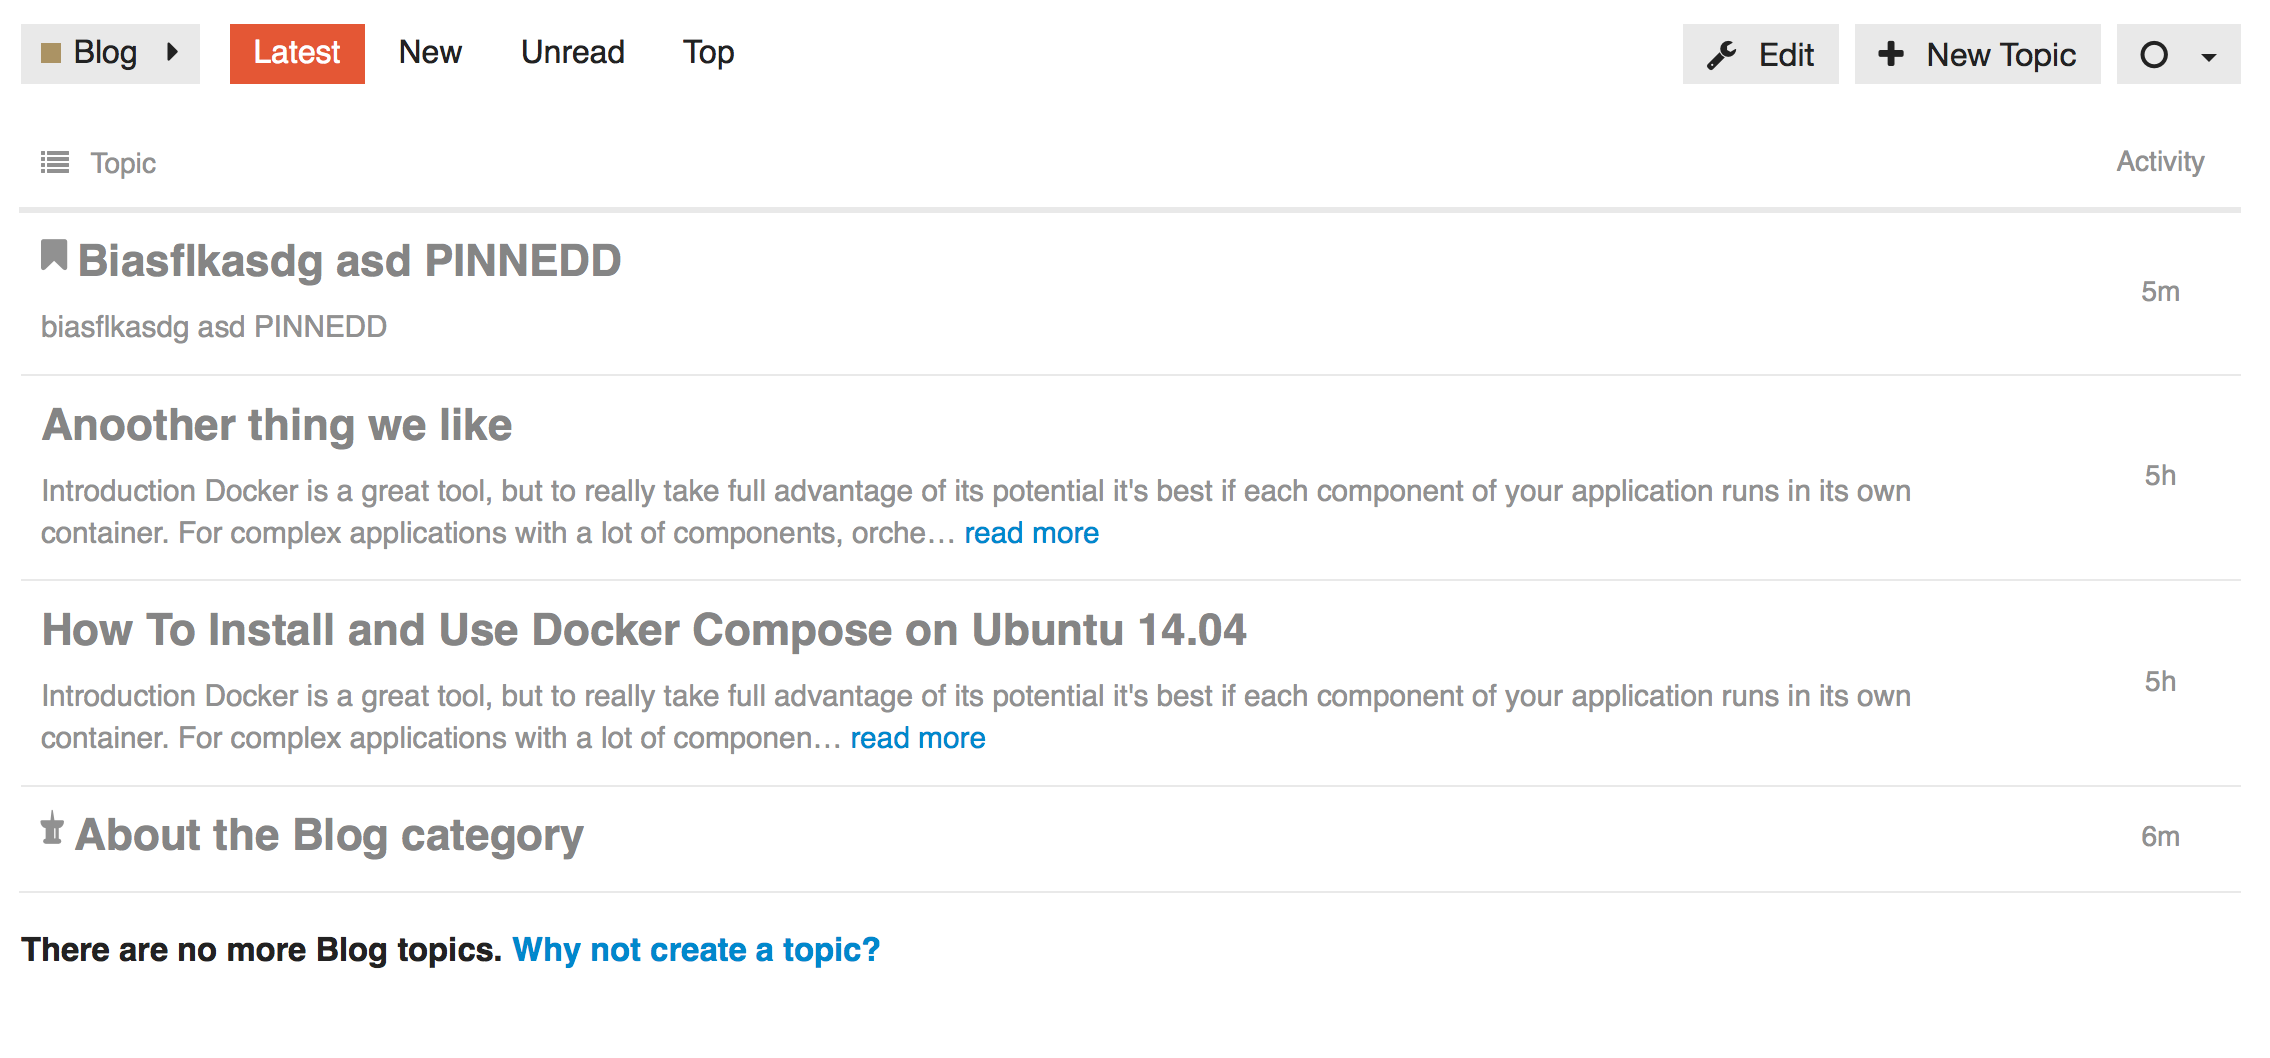
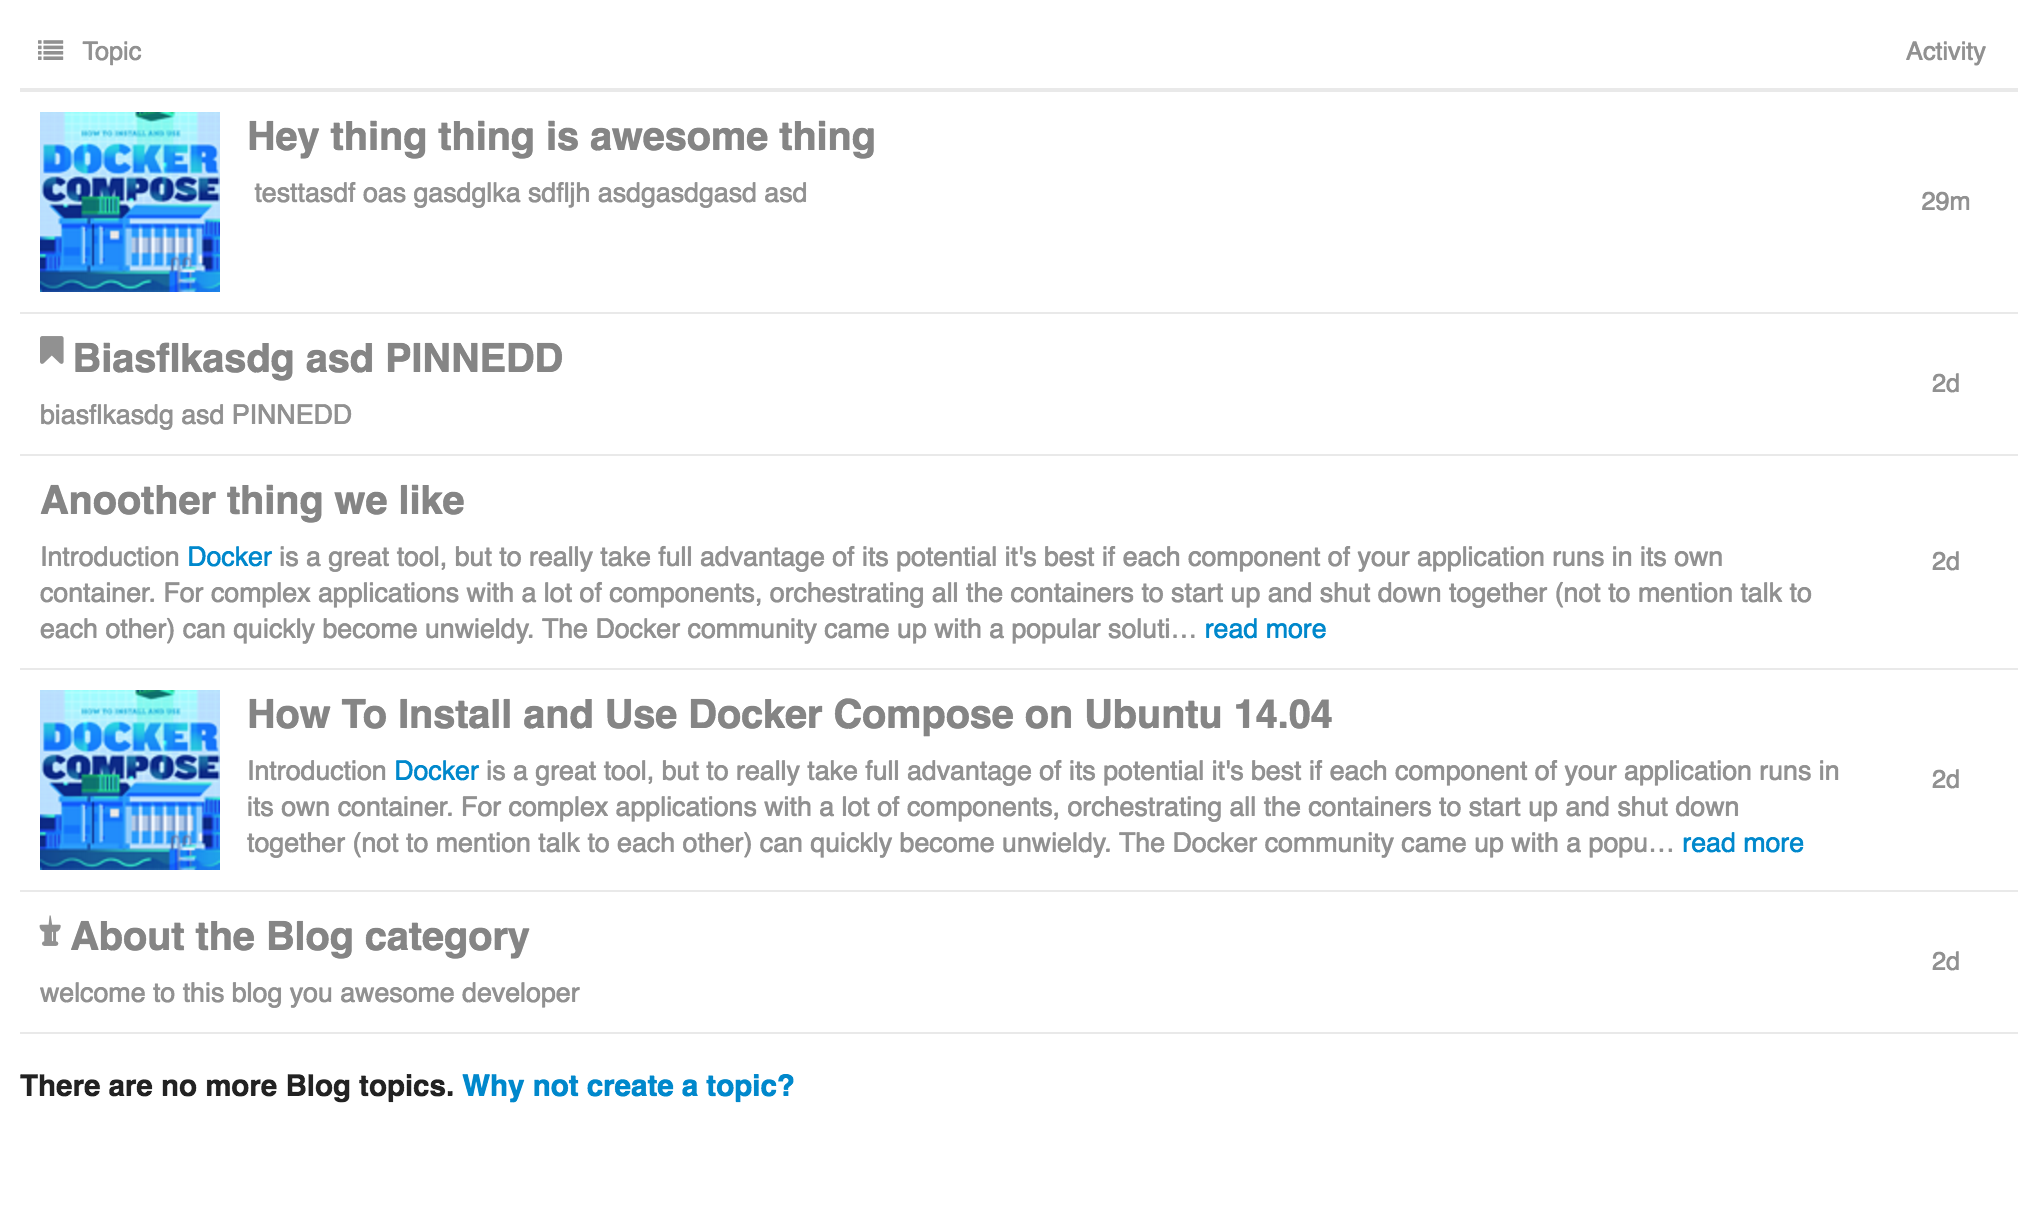
add thumbnails and set excerpt length 400

diff --git a/assets/stylesheets/blog-like.scss b/assets/stylesheets/blog-like.scss
@@ -1,3 +1,15 @@
+.topic-thumbnail {
+  float: left;
+  padding-right: 15px;
+  .thumbnail {
+    height: 100px;
+    width: 100px;
+    background-repeat: no-repeat;
+    background-position: center;
+    background-size: cover;
+  }
+}
+
 .category-blog .topic-list{
   .posters, .posts, .views {
     display: none;

diff --git a/plugin.rb b/plugin.rb
@@ -1,26 +1,119 @@
 # name: Blog Category
 # about: Make a category feel more like a blog
-# version: 0.0.1
+# version: 0.0.2
 # authors: Kyle Welsby <kyle@mekyle.com>
 
 register_asset 'stylesheets/blog-like.scss'
 
 after_initialize do
+  Topic.register_custom_field_type('thumbnails', :json)
+  @nil_thumbs = TopicCustomField.where(name: 'thumbnails', value: nil)
+  if @nil_thumbs.length
+    @nil_thumbs.each do |thumb|
+      hash = { normal: '', retina: '' }
+      thumb.value = ::JSON.generate(hash)
+      thumb.save!
+    end
+  end
+
+  module ListHelper
+    class << self
+      def create_thumbnails(id, image, original_url)
+        normal = image ? thumbnail_url(image, 100, 100) : original_url
+        retina = image ? thumbnail_url(image, 200, 200) : original_url
+        thumbnails = { normal: normal, retina: retina }
+        save_thumbnails(id, thumbnails)
+        thumbnails
+      end
+
+      def thumbnail_url(image, w, h)
+        image.create_thumbnail!(w, h) unless image.has_thumbnail?(w, h)
+        image.thumbnail(w, h).url
+      end
+
+      def save_thumbnails(id, thumbnails)
+        return unless thumbnails
+        topic = Topic.find(id)
+        topic.custom_fields['thumbnails'] = thumbnails
+        topic.save_custom_fields
+      end
+    end
+  end
+
+  require 'cooked_post_processor'
+  class ::CookedPostProcessor
+    def get_linked_image(url)
+      max_size = SiteSetting.max_image_size_kb.kilobytes
+      file = FileHelper.download(url, max_size, 'discourse', true)
+      Upload.create_for(@post.user_id, file, file.path.split('/')[-1], File.size(file.path))
+    rescue => e
+      Rails.logger.error e
+      nil
+    end
+
+    def create_topic_thumbnails(url)
+      local = UrlHelper.is_local(url)
+      image = local ? Upload.find_by(sha1: url[/[a-z0-9]{40,}/i]) : get_linked_image(url)
+      ListHelper.create_thumbnails(@post.topic.id, image, url)
+    end
+
+    alias original_update_topic_image update_topic_image
+    def update_topic_image
+      if @post.is_first_post?
+        img = extract_images_for_topic.first
+        if img['src']
+          url = img['src'][0...255]
+          create_topic_thumbnails(url)
+        end
+      end
+      original_update_topic_image
+    end
+  end
+
   require 'listable_topic_serializer'
   class ::ListableTopicSerializer
+    alias original_excerpt excerpt
     def excerpt
-      if object.excerpt.blank?
-        cooked = object.first_post.pluck('cooked')
-        excerpt = PrettyText.excerpt(cooked[0], 200, keep_emoji_images: true)
+      if Category.select(:slug).find_by_id(category_id).slug == 'blog'
+        max_length = 400
+        cooked = object.first_post.cooked
+        excerpt = PrettyText.excerpt(cooked, max_length, keep_emoji_images: true)
+        excerpt.gsub!(/(\[#{I18n.t 'excerpt_image'}\])/, '') if excerpt
+        excerpt
       else
-        excerpt = object.excerpt
+        original_excerpt
       end
-      excerpt.gsub!(/(\[#{I18n.t 'excerpt_image'}\])/, '') if excerpt
-      excerpt
     end
 
     def include_excerpt?
       object.excerpt.present?
+    end
+
+    def thumbnails
+      return unless object.archetype == Archetype.default
+      thumbs = get_thumbnails || get_thumbnails_from_image_url
+      thumbs
+    end
+
+    def include_thumbnails?
+      thumbnails.present? && thumbnails['normal'].present?
+    end
+
+    def get_thumbnails
+      thumbnails = object.custom_fields['thumbnails']
+      thumbnails = ::JSON.parse(thumbnails) if thumbnails.is_a?(String)
+      thumbnails = thumbnails[0] if thumbnails.is_a?(Array)
+      thumbnails.is_a?(Hash) ? thumbnails : false
+    end
+
+    def get_thumbnails_from_image_url
+      image = Upload.get_from_url(object.image_url)
+      ListHelper.create_thumbnails(object.id, image, object.image_url)
+    rescue => e
+      Rails.logger.error '**************************'
+      Rails.logger.error '   THUMBNAIL ERROR'
+      Rails.logger.error e
+      Rails.logger.error '**************************'
     end
   end
 
@@ -32,6 +125,11 @@ after_initialize do
       }
       create_list(:latest, options)
     end
+  end
+
+  require 'topic_list_item_serializer'
+  class ::TopicListItemSerializer
+    attributes :thumbnails
   end
 
   require 'list_controller'
@@ -55,4 +153,6 @@ after_initialize do
       end
     end
   end
+
+  TopicList.preloaded_custom_fields << 'thumbnails' if TopicList.respond_to? :preloaded_custom_fields
 end

diff --git a/README.md b/README.md
@@ -4,9 +4,10 @@ Special case settings for `blog` category.
 
 ## Features
 
-1. Excerpts for all topics
+1. 400 char length excerpts for all topics
 2. Topics ordered by `created`
 3. `user`, `replies`, and `views` hidden
+4. Square thumbnails from primary post image
 
 ![Blog Category Preview](./preview.png)
 
@@ -21,9 +22,9 @@ To install using docker, add the following to your `app.yml` in the plugins sect
     hooks:
       after_code:
         - exec:
-          cmd:
-            - mkdir -p plugins
-            - git clone https://github.com/tideaccount/tide-discourse-blog.git
+            cd: $home/plugins
+            cmd:
+              - git clone https://github.com/tideaccount/tide-discourse-blog.git
 
 and rebuild your docker via
 
